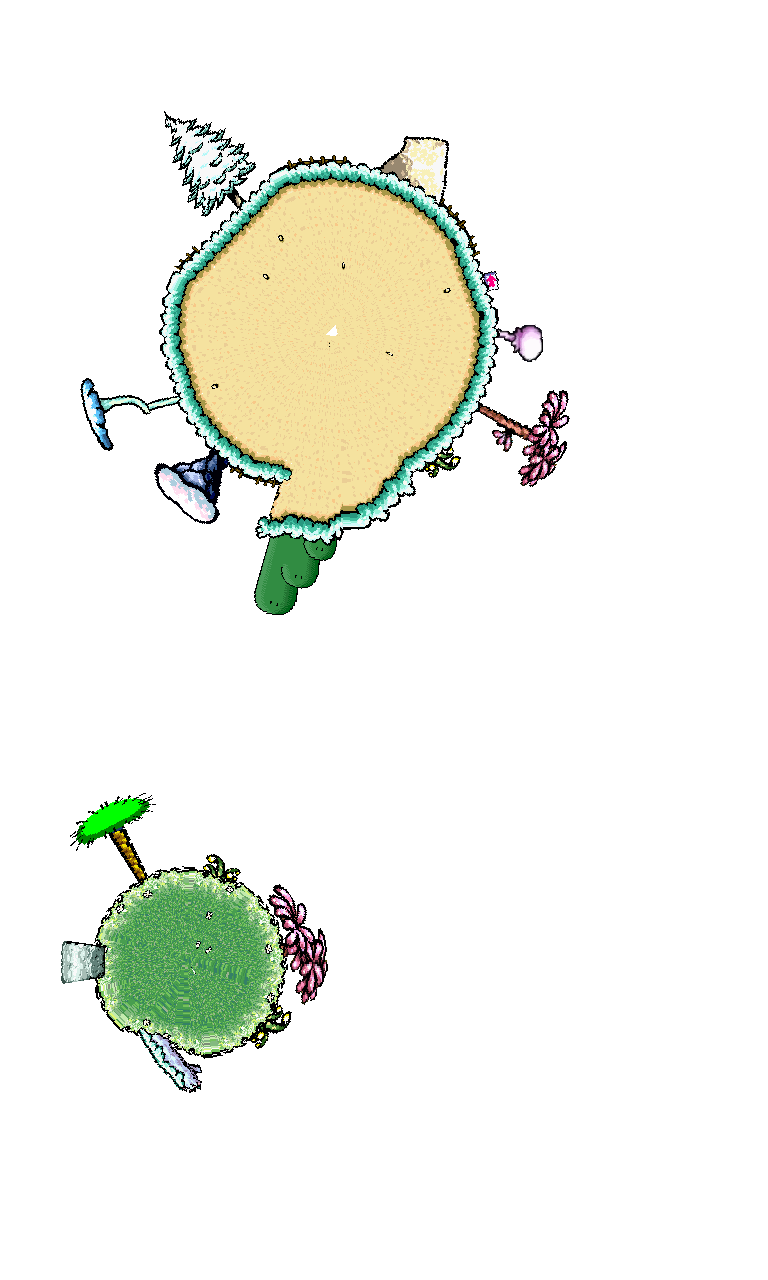
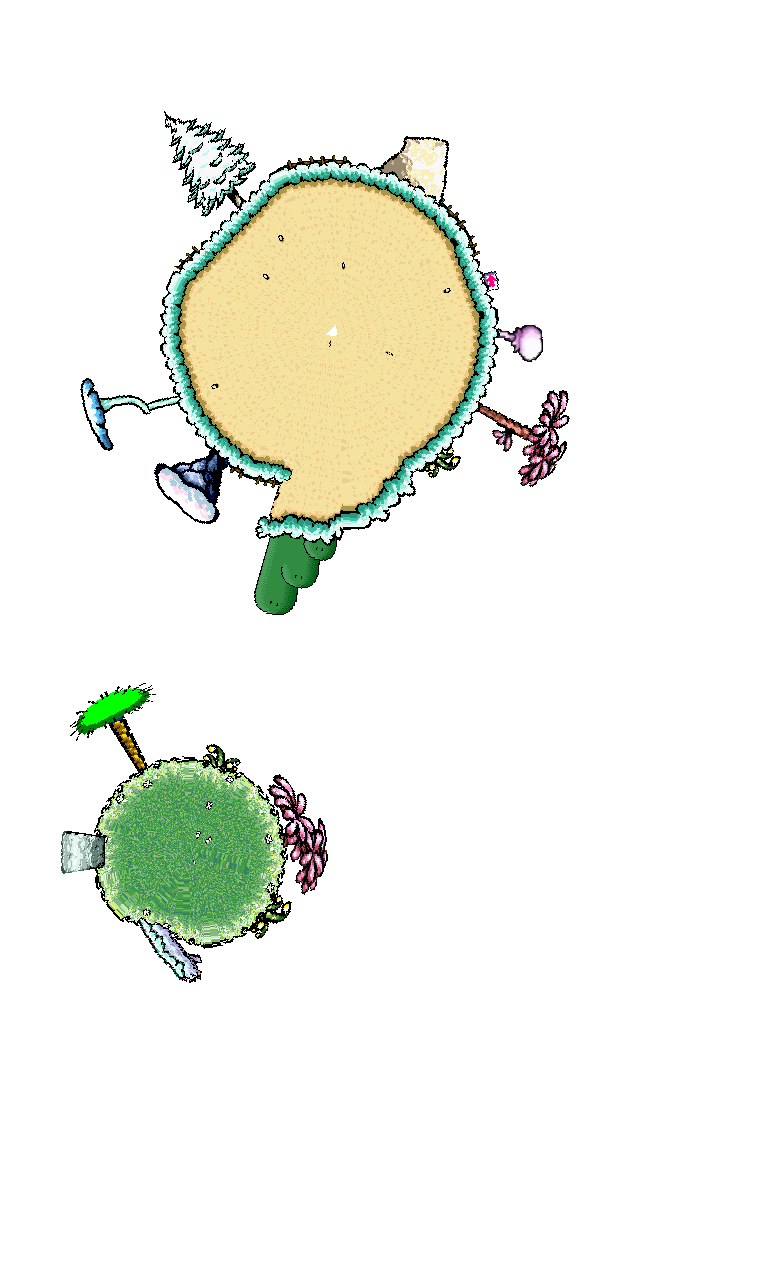
feat: ✨ Added a collision func and main ldtk level for storing info about tiles :)

Changed region(s): [[0.0625, 0.5312, 0.4375, 0.875]]

diff --git a/loadWorld.py b/loadWorld.py
@@ -1,0 +1,43 @@
+from BlazeSudio.Game import world
+from BlazeSudio.ldtk import Tileset
+import BlazeSudio.utils.genCollisions as gen
+import pygame
+
+MAINWORLD = world.World('./assets/all/main.ldtk')
+TILESETS = list(MAINWORLD.ldtk.tilesets.values())
+
+def collisionFunc(tset: Tileset, x, y):
+    sur = pygame.Surface((tset.tileGridSize, tset.tileGridSize), pygame.SRCALPHA)
+    sur.fill(0)
+
+    thisPth = tset.tilesetPath.replace('\\', '/')
+    thisPth = thisPth[thisPth.rfind('/')+1:]
+    
+    for otherTset in TILESETS:
+        if otherTset.tilesetPath.endswith(thisPth):
+            break
+    else:
+        return sur
+
+    collTyp = otherTset.getTileData(x, y)
+    if collTyp == []:
+        return sur
+    collTyp = collTyp[0]
+
+    img = tset.subsurface(x, y, tset.tileGridSize, tset.tileGridSize)
+
+    poly = None
+    if collTyp == 'FullCollision':
+        poly = [(0, 0), 
+                (tset.tileGridSize, 0), 
+                (tset.tileGridSize, tset.tileGridSize), 
+                (0, tset.tileGridSize)]
+    elif collTyp == 'BoundingBox':
+        poly = gen.bounding_box(img).toPoints()
+    elif collTyp == 'Trace':
+        poly = gen.approximate_polygon(img, 1).toPoints()
+    
+    if poly is None:
+        return sur
+    pygame.draw.polygon(sur, (255, 255, 255), poly)
+    return sur

diff --git a/wrap.py b/wrap.py
@@ -24,6 +24,8 @@ if '/brokenTogether' not in os.getcwd():
 
 os.chdir(os.getcwd()[:os.getcwd().index('/brokenTogether')+15])
 
+from loadWorld import collisionFunc  # noqa: E402
+
 imgs = [[], []]
 class Chooser(Screen):
     def __init__(self):
@@ -62,7 +64,7 @@ if chosen.lvl is None:
 else:
     levels = [chosen.lvl]
 
-@Progressbar(3)
+@Progressbar(100)
 def run(slf):
     yield 'Starting'
 
@@ -89,8 +91,8 @@ def run(slf):
                 segs.append(wrap.Segment(e.ScaledPos[0], e.fieldInstances[0]['__value']['cx']*e.gridSze+e.layerOffset[0]))
         if wraping:
             doneLvls += 1
-            yield 'Wrapping...', {'formatter': lambda *args: DEFAULT_FORMAT_FUNC(args[0]+f' for level {lvlObj.identifier} ({doneLvls}/{len(levels)})', *args[1:])}
-            i1, i2 = yield from wrap.wrapLevel(world, lvl, Top, Bottom, Limit, 0, segs, [255, 255, 255, 10], True)
+            yield 'Wrapping', {'formatter': lambda *args: DEFAULT_FORMAT_FUNC(args[0]+f' for level {lvlObj.identifier} ({doneLvls}/{len(levels)})', *args[1:])}
+            i1, i2 = yield from wrap.wrapLevel(world, lvl, collisionFunc, Top, Bottom, Limit, 0, segs, [255, 255, 255, 10], True)
             imgs[0].append(i1)
             imgs[1].append(i2)
 
